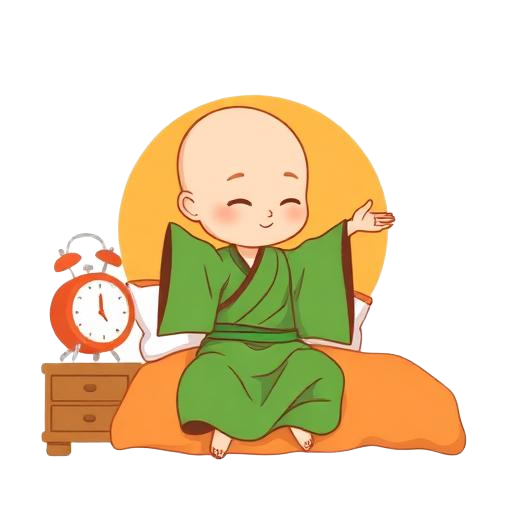
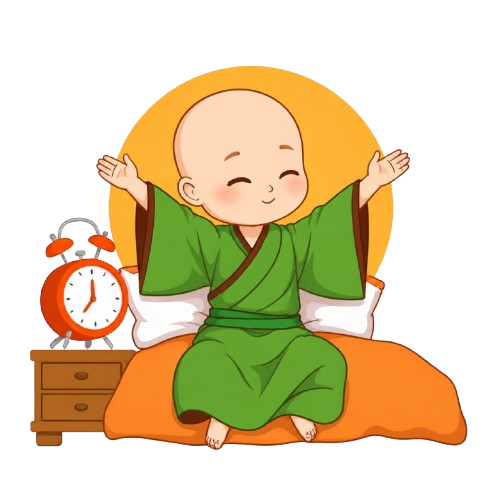
android and ios fixed

Changed region(s): [[0.06, 0.12, 0.96, 0.9]]

diff --git a/app/(tabs)/createhabit.tsx b/app/(tabs)/createhabit.tsx
@@ -24,7 +24,9 @@ import { router } from "expo-router";
 import { LinearGradient } from 'expo-linear-gradient';
 import { supabase } from '../../lib/client';
 import { NativeStackNavigationProp } from '@react-navigation/native-stack';
-import DateTimePicker from '@react-native-community/datetimepicker';
+import DateTimePicker, {
+  DateTimePickerAndroid,
+} from "@react-native-community/datetimepicker";
 import dayjs from 'dayjs';
 import { Ionicons } from '@expo/vector-icons';
 
@@ -949,9 +951,27 @@ rotate:rotateInterpolate
 
                   <TouchableOpacity
                     // onPress={() => setShowTimePicker(currentIndex)}
-                    onPress={() => {
-  setTempTime(habitTimes[currentIndex] || new Date());
-  setShowTimePicker(currentIndex);
+ onPress={() => {
+  if (Platform.OS === "ios") {
+    setTempTime(habitTimes[currentIndex] || new Date());
+    setShowTimePicker(currentIndex);
+  } else {
+    DateTimePickerAndroid.open({
+      value: habitTimes[currentIndex] || new Date(),
+      mode: "time",
+      is24Hour: false,
+  onChange: (event, date) => {
+  if (event.type === "dismissed") return;
+
+  if (date) {
+    setHabitTimes(prev => ({
+      ...prev,
+      [currentIndex]: date,
+    }));
+  }
+},
+    });
+  }
 }}
                     style={styles.timePickerButton}
                   >
@@ -1074,11 +1094,12 @@ backgroundColor:(newHabit.color || active.color) + "22",
           />
         )} */}
 
-<Modal
-  visible={showTimePicker !== null}
-  transparent
-  animationType="fade"
->
+{Platform.OS === "ios" && (
+  <Modal
+    visible={showTimePicker !== null}
+    transparent
+    animationType="fade"
+  >
   <View style={styles.timeOverlay}>
     <View style={styles.timeModal}>
 
@@ -1127,6 +1148,7 @@ backgroundColor:(newHabit.color || active.color) + "22",
     </View>
   </View>
 </Modal>
+)}
         {/* Add Custom Habit Modal */}
         <Modal
           visible={showAddModal}

diff --git a/app/(tabs)/index.tsx b/app/(tabs)/index.tsx
@@ -134,7 +134,7 @@ export default function HomePage() {
               /> */}
 
               <Animated.Image
-  source={require("../../assets/images/guru-consistency.png")}
+  source={require("../../assets/images/consistent-guru.png")}
   style={[
     styles.logo,
     {
